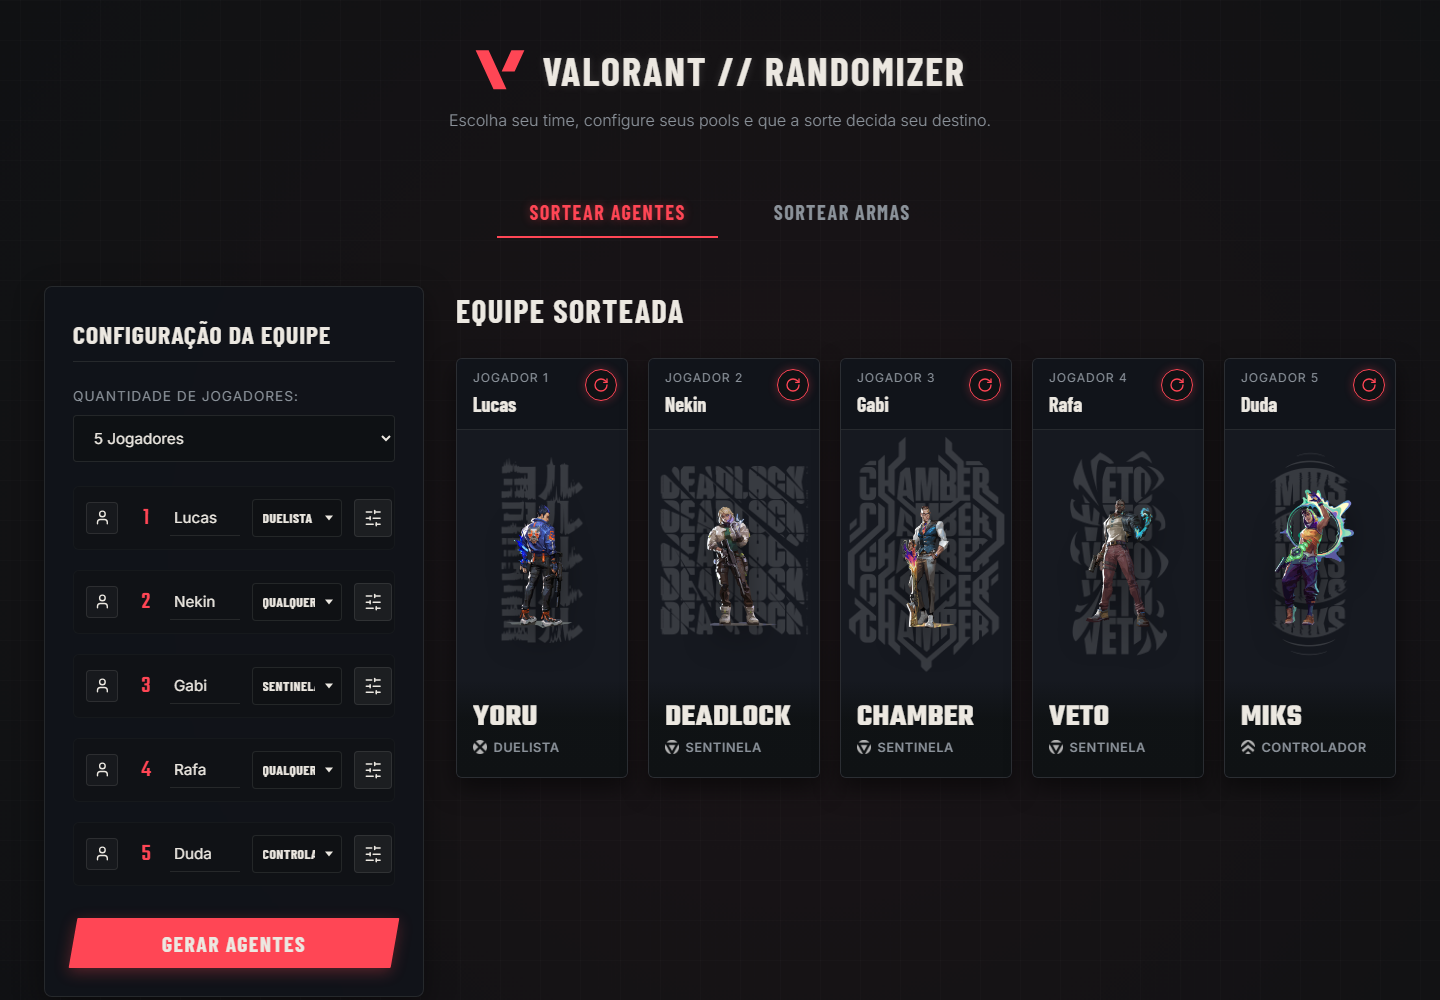
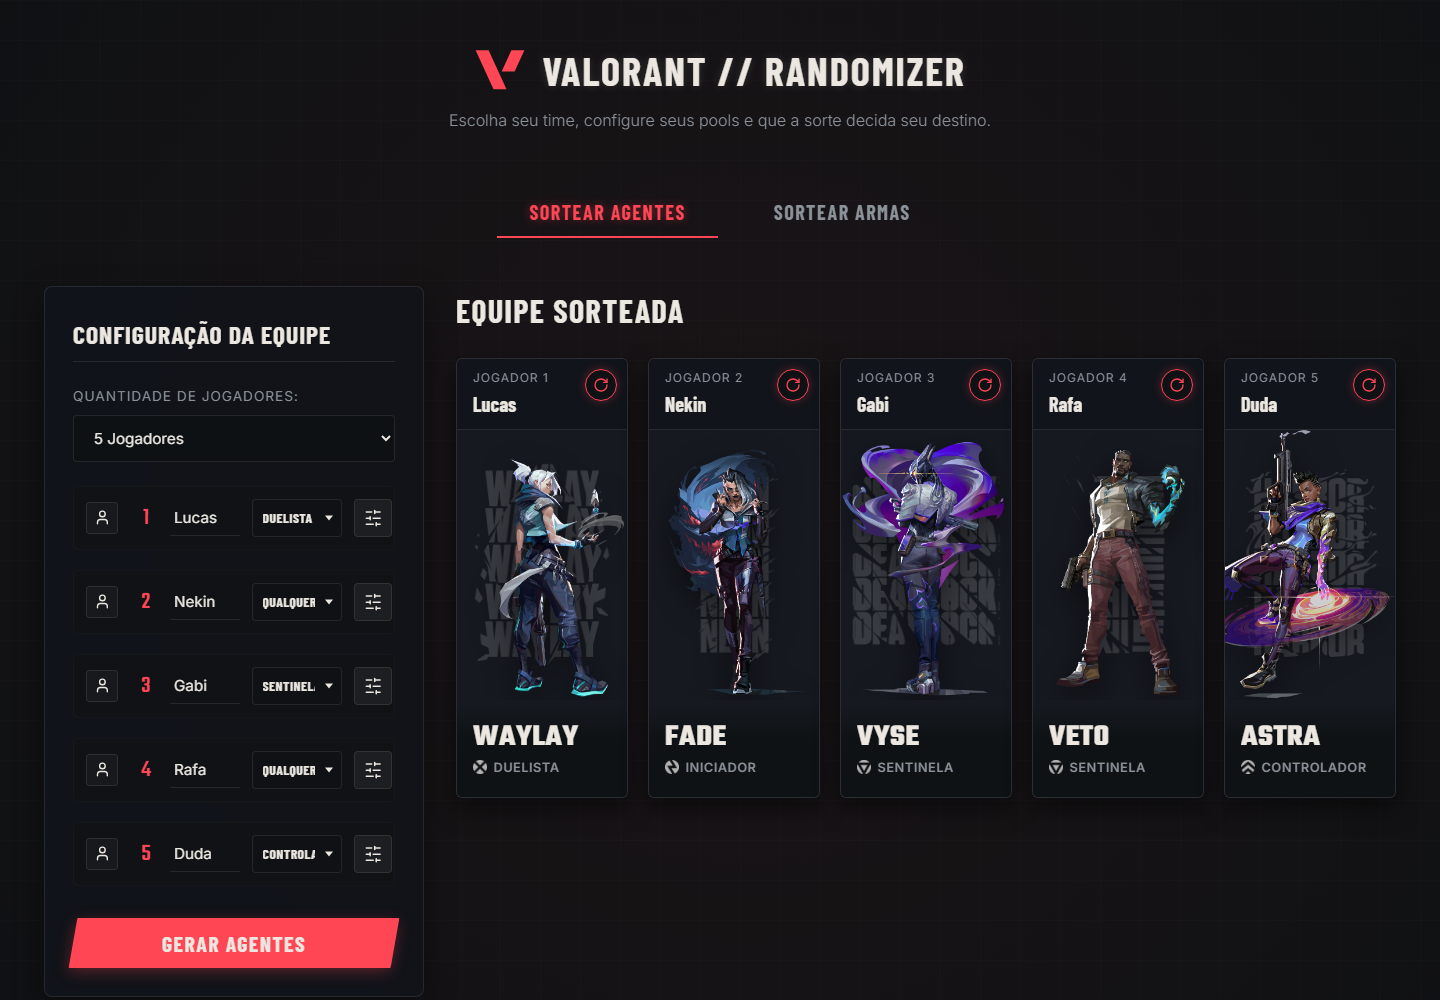
fix: aumenta a arte dos agentes nos cards
- portrait preenche a area com object-fit: cover em vez de caber inteiro
- cards de agente com 440px de altura (desktop e mobile)
- capturas do README refeitas com o novo visual

Changed region(s): [[0.3125, 0.434, 0.7188, 0.775], [0.8438, 0.434, 0.9688, 0.775], [0.7188, 0.434, 0.8438, 0.775]]

diff --git a/styles.css b/styles.css
@@ -534,7 +534,7 @@ select:focus {
 }
 
 .result-card {
-    height: 420px;
+    height: 440px;
     background: #161920;
     border: 1px solid var(--border-color);
     border-radius: 6px;
@@ -580,7 +580,8 @@ select:focus {
 }
 
 .card-agent-portrait {
-    padding: 0.5rem 0.5rem 0;
+    object-fit: cover;
+    object-position: 50% 30%;
     filter: drop-shadow(0 10px 15px rgba(0,0,0,0.5));
 }
 
@@ -1019,7 +1020,7 @@ select:focus {
     }
     
     .result-card {
-        height: 400px;
+        height: 440px;
     }
     
     .card-agent-name {
